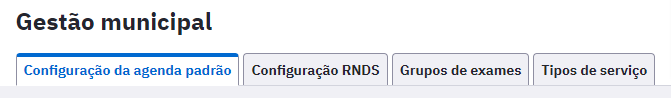
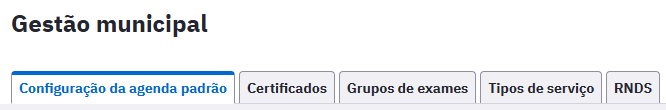
gestão municipal

Changed region(s): [[0.0, 0.6429, 1.0, 0.8878], [0.0, 0.1224, 0.3303, 0.3673], [0.0, 0.5204, 0.991, 0.5816]]

diff --git a/docs/PEC/PEC_03_adm_conf.md b/docs/PEC/PEC_03_adm_conf.md
@@ -1519,18 +1519,13 @@ Caso o imunobiológico já esteja vinculado a algum registro de aplicação de v
 
 ![](media/pec_image214.png)
 
-O módulo de Gestão municipal agrupa funcionalidades gerais, que somente podem ser acessados com o perfil de **administrador municipal** do sistema e-SUS APS, são elas: Configuração da agenda padrão dos profissionais, Grupos de exames, Tipos de serviço e Configuração RNDS.
+O módulo de Gestão municipal agrupa funcionalidades gerais, que somente podem ser acessados com o perfil de **Administrador Municipal** do sistema e-SUS APS, são elas: Configuração da agenda padrão, Certificados, Grupos de exames, Tipos de serviço e RNDS.
 
 ![](media/pec_image881.png)
 
-{: .atualizacao }
-O módulo para Configuração de Compartilhamento de Prontuário foi descontinuado. A partir da versão 4.2, todos os municípios que utilizam a mesma instalação multimunicipal irão compartilhar os prontuário dos cidadãos. Esta alteração não interfere na geração de relatórios do PEC. A nova regra de compartilhamento de prontuário entre municípios está de acordo com a política de privacidade da RNDS.
-
-Este módulo permitia que um município optasse por não compartilhar dados de prontuário com outros municípios da mesma instalação multimunicipal.
-
 ## 3.11.1 Configuração da agenda padrão
 
-A funcionalidade de "Configuração da agenda padrão" permite configurar um horário padrão de atendimento de todos os profissionais da unidade de saúde para cada dia da semana, incluindo sábado e domingo (opção "Mostrar fim de semana").
+A funcionalidade de "Configuração da agenda padrão" permite configurar um horário padrão de atendimento de todos os profissionais das unidades de saúde para cada dia da semana, incluindo sábado e domingo (opção "Mostrar fim de semana").
 
 Para configurar os horários de atendimento padrão, informe os horários e clique em "Salvar".
 
@@ -1544,47 +1539,11 @@ Também é possível configurar a duração padrão do agendamento (duração pa
 
 ![](media/pec_image219.png)
 
-## 3.11.2 Grupos de exame
-
-Os grupos de exames são apresentados no módulo de solicitação de exames durante o atendimento no PEC, em "Opções rápidas". Estes filtros são filtrados de acordo com idade e sexo do cidadão em atendimento.
-
-Figura 3.11.2 - Grupos de exames
-
-![](media/pec_image223.png)
-
-Fonte: SAPS/MS
-
-É possível criar novos grupos de exame na aba "Grupos de exames". Para isso, clique em "Adicionar grupo de exames". Informe o "Nome do grupo" e selecione os exames no combo "Exames". Para concluir, clique em "Adicionar".
-
-Figura 3.11.3 - Grupos de exames
-
-![](media/pec_image224.png)
-
-Fonte: SAPS/MS
-
-Os grupos também podem ser editados por meio do botão ![](media/pec_image225.png) ou excluídos no botão ![](media/pec_image226.png).
-
-## 3.11.3 Tipos de serviço
-
-Figura 3.11.3 - Tipos de serviço
-
-![](media/pec_image227.png)
-
-Fonte: SAPS/MS
-
-Na aba "Tipos de serviço", é possível adicionar, editar e excluir os tipos de serviços de saúde disponíveis para o município.
-
-Para adicionar, clique em "Adicionar tipo de serviço", informe o nome do tipo de serviço e clique em "Adicionar" para concluir.
-
-![](media/pec_image882.png)
-
-Para editar, clique em ![](media/pec_image228.png). Para excluir um tipo de serviço, cliquem em ![](media/pec_image229.png).
-
-## 3.11.4 Certificados
+## 3.11.2 Certificados
 
 Esta funcionalidade foi implementada no sistema PEC e-SUS APS com a finalidade de habilitar o certificado digital, gerado atualmente via **e-Gestor APS**, sistema **Implantação e-SUS APS**.
 
-Figura 3.11.4 - Tela de Configuração RNDS
+Figura 3.11.2 - Tela de Configuração RNDS
 
 ![](media/pec_image883.png)
 
@@ -1611,6 +1570,42 @@ Novas opções no módulo Cidadão:
 A habilitação do certificado digital é apenas uma das etapas do processo de habilitação da sincronização do sistema com o CADSUS. Para completar todo o processo desta importante habilitação, será necessário na instalação do PEC e-SUS APS:
 - Habilitar o acesso ao sistema por endereço de domínio gov.br via protocolo HTTPS ([manual completo](https://saps-ms.github.io/Manual-eSUS_APS/docs/Apoio%20a%20Implanta%C3%A7%C3%A3o/HTTPS_Automatizado/))
 - Habilitar o login via conta gov.br no sistema ([manual completo](https://saps-ms.github.io/Manual-eSUS_APS/docs/Apoio%20a%20Implanta%C3%A7%C3%A3o/Login_GOV.BR/))
+
+## 3.11.3 Grupos de exame
+
+Os grupos de exames são apresentados no módulo de solicitação de exames durante o atendimento no PEC, em "Opções rápidas". Estes filtros são filtrados de acordo com idade e sexo do cidadão em atendimento.
+
+Figura 3.11.3.1 - Grupos de exames
+
+![](media/pec_image223.png)
+
+Fonte: SAPS/MS
+
+É possível criar novos grupos de exame na aba "Grupos de exames". Para isso, clique em "Adicionar grupo de exames". Informe o "Nome do grupo" e selecione os exames no combo "Exames". Para concluir, clique em "Adicionar".
+
+Figura 3.11.3.2 - Grupos de exames
+
+![](media/pec_image224.png)
+
+Fonte: SAPS/MS
+
+Os grupos também podem ser editados por meio do botão ![](media/pec_image225.png) ou excluídos no botão ![](media/pec_image226.png).
+
+## 3.11.4 Tipos de serviço
+
+Figura 3.11.4 - Tipos de serviço
+
+![](media/pec_image227.png)
+
+Fonte: SAPS/MS
+
+Na aba "Tipos de serviço", é possível adicionar, editar e excluir os tipos de serviços de saúde disponíveis para o município.
+
+Para adicionar, clique em "Adicionar tipo de serviço", informe o nome do tipo de serviço e clique em "Adicionar" para concluir.
+
+![](media/pec_image882.png)
+
+Para editar, clique em ![](media/pec_image228.png). Para excluir um tipo de serviço, cliquem em ![](media/pec_image229.png).
 
 # 3.12 Importação do Bolsa Família
 
